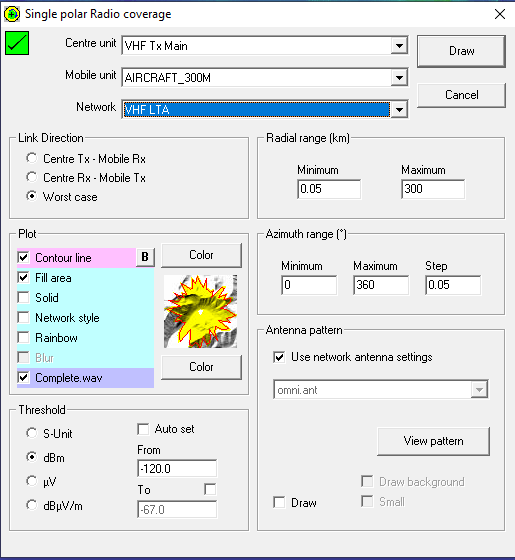
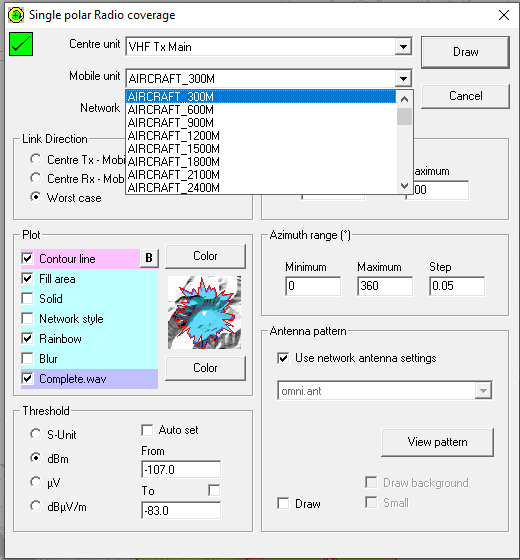
cap nhat moi

Changed region(s): [[0.0, 0.0, 1.0, 1.0], [0.6835, 0.85, 0.901, 0.9107], [0.4971, 0.2429, 0.6835, 0.2732]]

diff --git a/index.html b/index.html
@@ -372,7 +372,7 @@
                 <p style="color:var(--text); line-height:1.6; font-size:0.95rem; margin-bottom:16px;"><strong>Bước khởi đầu:</strong> Trước khi bắt đầu mô phỏng, cần cài đặt phần mềm Radio Mobile.</p>
                 
                 <ol style="color:var(--text); line-height:1.8; font-size:0.95rem; padding-left:20px;">
-                  <li>Truy cập link <strong><a href="http://www.g3tvu.co.uk/Quick_Start.htm" target="_blank" style="color:var(--accent); text-decoration:none; border-bottom:1px solid var(--accent);">http://www.g3tvu.co.uk/Quick_Start.htm</a></strong> để tải bản phần mềm Radio Mobile mới nhất.</li>
+                  <li>Truy cập link <strong><a href="http://www.g3tvu.co.uk/Quick_Start.htm" target="_blank" style="color:var(--accent); text-decoration:none; border-bottom:1px solid var(--accent);">http://www.g3tvu.co.uk/Quick_Start.htm</a></strong> để tải bản phần mềm Radio Mobile.</li>
                   <li>Tải xuống file cài đặt và tiến hành cài đặt phần mềm trên máy tính.</li>
                   <li>Hoàn tất quá trình cài đặt và khởi động phần mềm.</li>
                 </ol>
@@ -579,13 +579,13 @@
                     <div style="background:var(--bg-alt); border:1px solid var(--border); border-radius:8px; overflow:hidden;">
                       <img src="public/Bước%206-1.PNG" alt="Bước 6 - Phần 1: Membership" style="width:100%; height:auto; display:block;">
                     </div>
-                    <figcaption style="margin-top:8px; font-size:0.85rem;">Hình 5.6a — Membership (Phần 1): Chọn Units</figcaption>
+                    <figcaption style="margin-top:8px; font-size:0.85rem;">Hình — Thiết lập cho máy phát VHF trạm mặt đất </figcaption>
                   </figure>
                   <figure class="shot" style="margin:0;">
                     <div style="background:var(--bg-alt); border:1px solid var(--border); border-radius:8px; overflow:hidden;">
                       <img src="public/Bước%206-2%20.PNG" alt="Bước 6 - Phần 2: Membership" style="width:100%; height:auto; display:block;">
                     </div>
-                    <figcaption style="margin-top:8px; font-size:0.85rem;">Hình 5.6b — Membership (Phần 2): Gán System & Antenna Height</figcaption>
+                    <figcaption style="margin-top:8px; font-size:0.85rem;">Hình — Thiết lập VHF trên tàu bay</figcaption>
                   </figure>
                 </div>
               </div>
@@ -623,8 +623,8 @@
                   <p><strong>• Plot:</strong> Thiết lập màu sắc và kiểu viền cho vùng phủ trên bản đồ.</p>
                   
                   <p style="margin-bottom:0;"><strong>• Threshold:</strong> Chọn ngưỡng thu tối thiểu:
-                    <br/>— <strong>-107 dBm:</strong> Ngưỡng phát hiện tối thiểu tại đầu vào anten (từng phát hiện tín hiệu).
-                    <br/>— <strong>-83 dBm:</strong> Tương đương 75 μV/m theo tiêu chuẩn ICAO, đảm bảo thoại ra đạt chất lượng tốt.
+                    <strong>-107 dBm:</strong> Ngưỡng phát hiện tối thiểu tại đầu vào anten .
+                    <strong>-83 dBm:</strong> Tương đương 75 μV/m theo tiêu chuẩn ICAO, đảm bảo thoại ra đạt chất lượng tốt.
                   </p>
                 </div>
 
@@ -692,7 +692,13 @@
 
                 <figure class="shot" style="margin-top:20px;">
                   <div style="background:linear-gradient(135deg, rgba(13,132,214,0.08) 0%, rgba(13,132,214,0.12) 100%); border:1px solid rgba(13,132,214,0.2); border-radius:8px; padding:30px; display:grid; place-items:center; min-height:200px;">
-                    <img src="public/Bước%208.PNG" alt="Bước 9: Google Earth KMZ" style="max-width:90%; max-height:180px; object-fit:contain;">
+                    <img src="public/Bước%209-1.PNG" alt="Bước 9: Google Earth KMZ" style="max-width:90%; max-height:180px; object-fit:contain;">
+                  </div>
+                  <figcaption style="margin-top:10px;">Hình 5.9 — Vùng phủ được nhúng trên Google Earth Pro dưới định dạng KMZ, sẵn sàng để chia sẻ hoặc trực quan hóa trên bản đồ web.</figcaption>
+                </figure>
+                <figure class="shot" style="margin-top:20px;">
+                  <div style="background:linear-gradient(135deg, rgba(13,132,214,0.08) 0%, rgba(13,132,214,0.12) 100%); border:1px solid rgba(13,132,214,0.2); border-radius:8px; padding:30px; display:grid; place-items:center; min-height:200px;">
+                    <img src="public/Bước%209-2.PNG" alt="Bước 9: Google Earth KMZ" style="max-width:90%; max-height:180px; object-fit:contain;">
                   </div>
                   <figcaption style="margin-top:10px;">Hình 5.9 — Vùng phủ được nhúng trên Google Earth Pro dưới định dạng KMZ, sẵn sàng để chia sẻ hoặc trực quan hóa trên bản đồ web.</figcaption>
                 </figure>